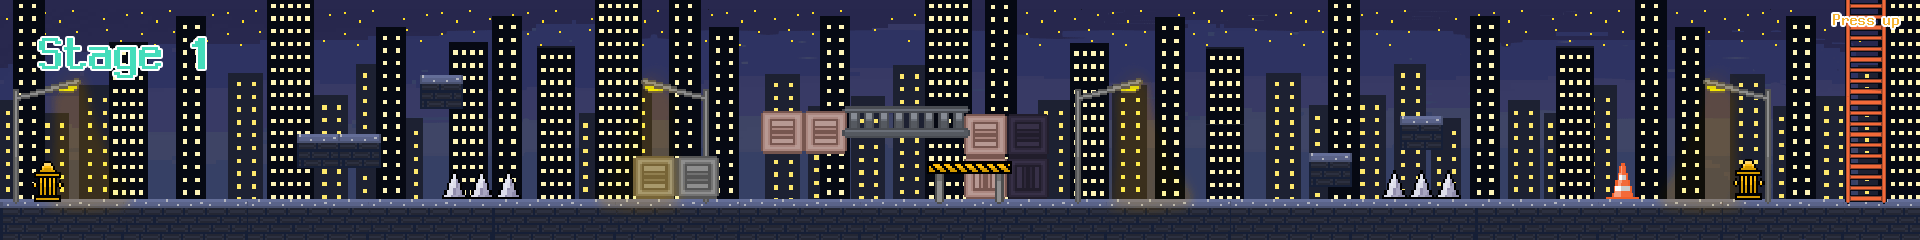
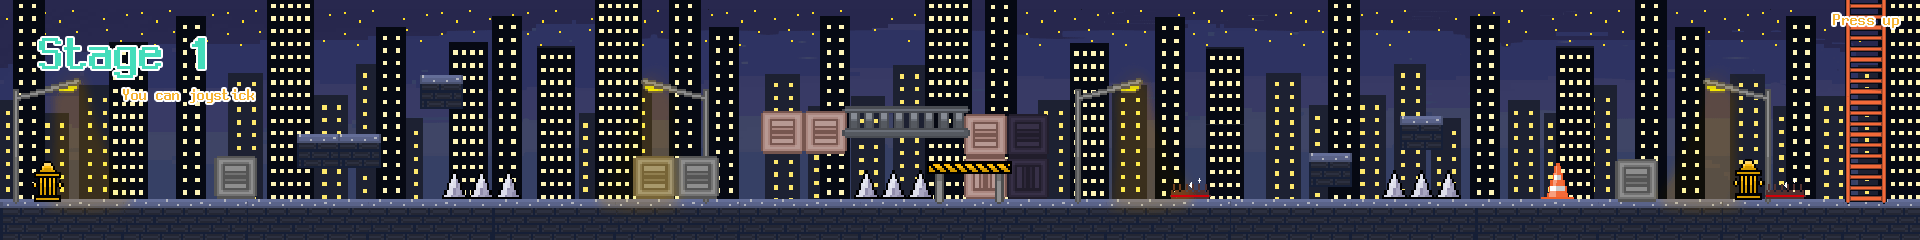
23.12.03 stage1 platform add

diff --git a/main.py b/main.py
@@ -62,6 +62,7 @@ def main():
     # 플랫폼 생성
     platforms1 = [
         Platform(0, 210, 1920, 30), #바닥
+        Platform(214,166,43,43),
         Platform(297, 144, 84, 34),
         Platform(420, 85, 43, 34),
         Platform(633,166,86,43),
@@ -70,7 +71,8 @@ def main():
         Platform(964,124,84,85),
         Platform(1309,163,43,34),
         Platform(1400,126,43,34),
-        Platform(1606,173,33,36),
+        Platform(1543,174,31,35),
+        Platform(1615,169,43,43)
         #Platform(240, 190, 50, 20) # 플랫폼 위치와 크기 설정
     ]
     
@@ -112,9 +114,11 @@ def main():
     skills = [skill0, skill0_error, skill0_end, skill2, skill2_error, skill2_end, skill31, skill31_error, skill31_end, skill32, skill32_error, skill32_end ]
 
     obstacle1 = [
-        Obstacle(0,210,1,1),
-        Obstacle(442,182,79,27),
+        Obstacle(442,192,79,27),
+        Obstacle(859,183,73,26),
+        Obstacle(1172,199,37,11),
         Obstacle(1384,180,79,27),
+        Obstacle(1767,193,37,11),
     ]
     
     obstacle2 = [
@@ -153,14 +157,14 @@ def main():
     show_intro_images(joystick, intro_image_paths)
     
     # 스테이지 1 시작
-    # if stage1(joystick, my_character, platforms1, background_images[0], obstacle1, portal1, background_images, skills) == 7 :
-    #     show_game_over(joystick)
-    #     return
+    if stage1(joystick, my_character, platforms1, background_images[0], obstacle1, portal1, background_images, skills) == 7 :
+        show_game_over(joystick)
+        return
     
     # 스테이지 2 시작
-    # if stage2(joystick, my_character2, platforms2, background_images[2], obstacle2, portal1, background_images, skills, monsters) == 7 :
-    #     show_game_over(joystick)
-    #     return
+    if stage2(joystick, my_character2, platforms2, background_images[2], obstacle2, portal1, background_images, skills, monsters) == 7 :
+        show_game_over(joystick)
+        return
     
     # 스테이지 3 시작
     if stage3(joystick, my_character3, platforms3, background_images[4], obstacle3, portal1, background_images, skills, monsters) == 7 :
